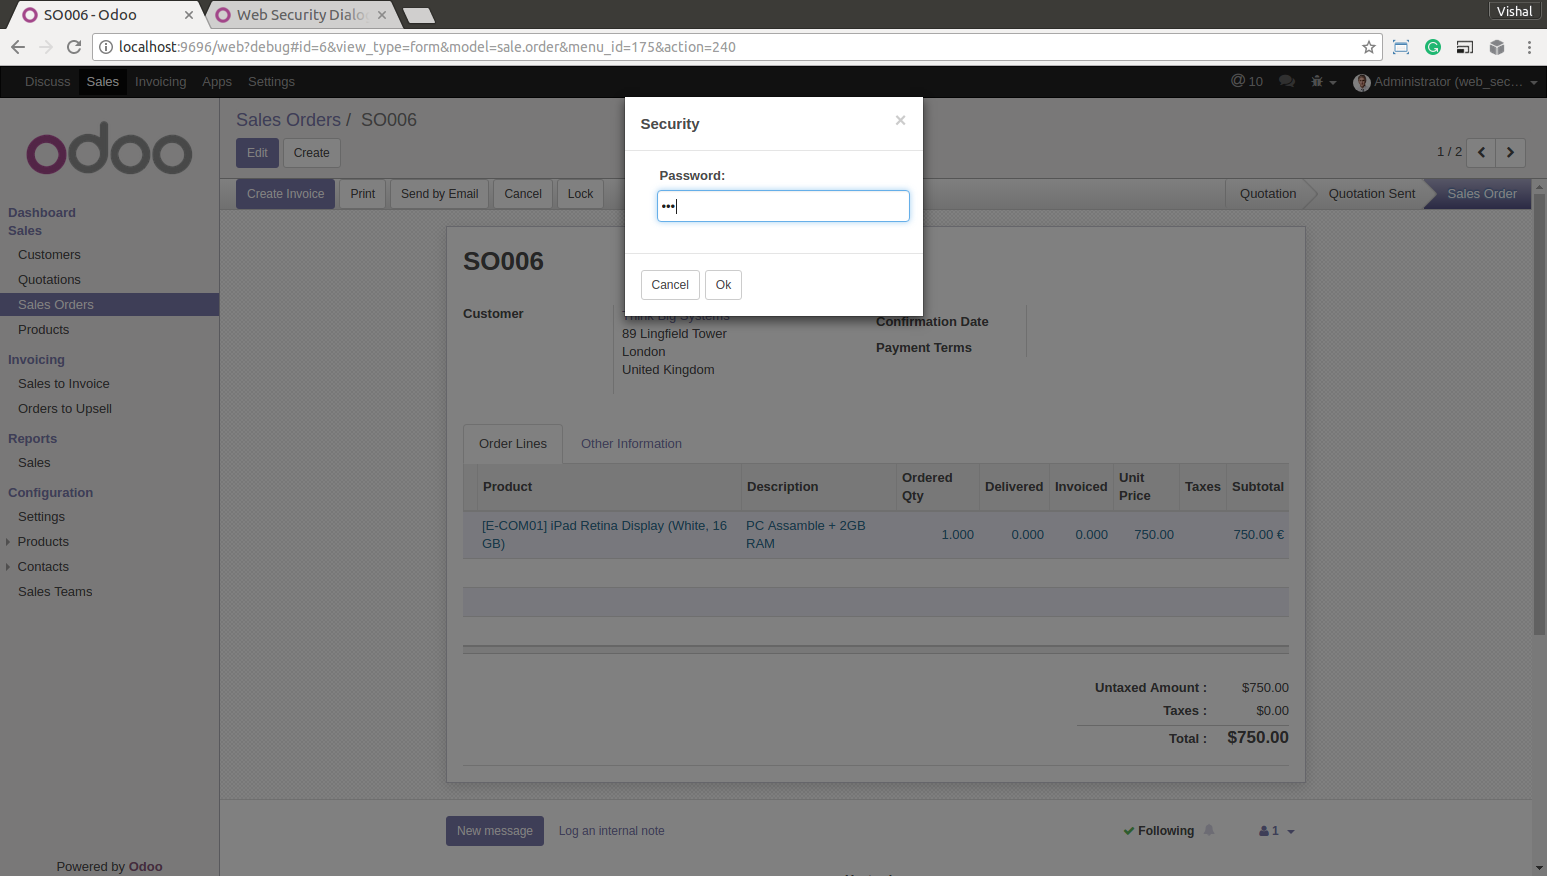
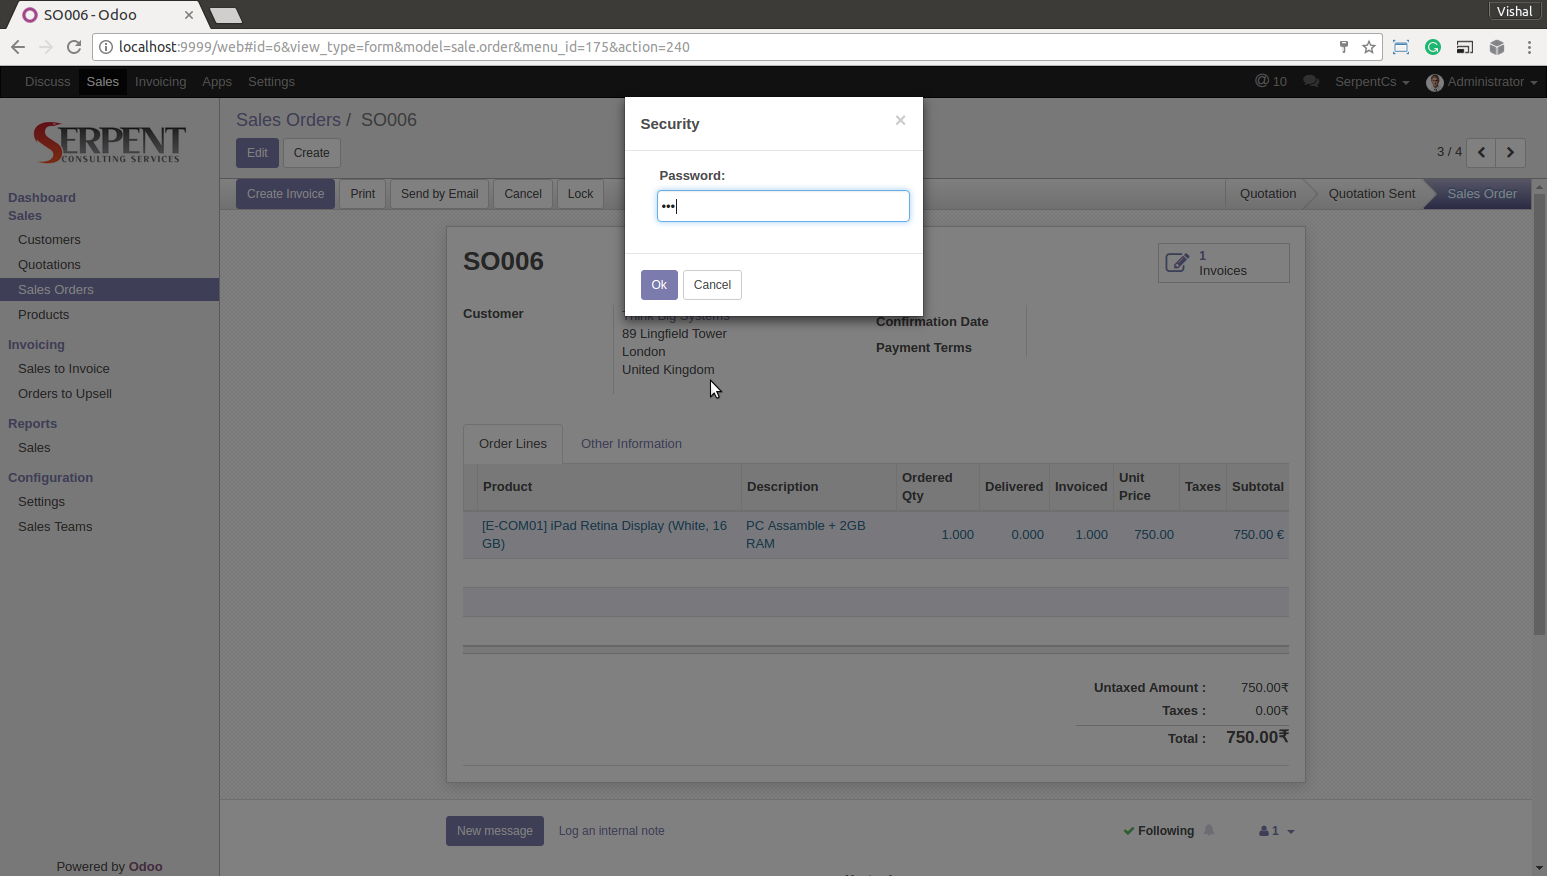
Changed the security functionality from user level to the company level.

diff --git a/web_security_dialog/static/src/js/web_security_dialog.js b/web_security_dialog/static/src/js/web_security_dialog.js
@@ -26,80 +26,93 @@ odoo.define("web_security_dialog.SecurityDialog",function(require){
                 }
             }
         },
-        on_click : function() {
+        execute_action: function() {
             var self = this;
-            if (this.view.is_disabled) {
-                return;
-            }
-            self.view.enable_button();
-            self.force_disabled = false;
-            self.check_disable();
-            if (self.$el.hasClass('o_wow')) {
-                self.show_wow();
-            }
-            if (this.is_dialog_security) {
-                self.dialog = new Dialog(self,{
-                    title: _t('Security'),
-                    size : "small",
-                    $content: QWeb.render('DialogSecurity'),
+            var exec_action = function() {
+            if (self.node.attrs.confirm && self.is_dialog_security){
+                Dialog.confirm(self, self.node.attrs.confirm, {
                     buttons: [
-                                {
-                                    text:_t('Cancel'),
-                                    close:true
-                                },
-                                {
-                                    text: _t("Ok"),
-                                    click: function(){
-                                       var curr_obj = this;
-                                       var pass_value = this.$el.find("#d_security").val();
-                                       if (pass_value) {
-                                           framework.blockUI();
-                                           var callback = self.validate_user(self.is_dialog_security,pass_value);
-                                           callback.done(function(result) {
-                                               framework.unblockUI();
-                                               if (result) {
-                                                   curr_obj.close();
-                                                   self.click_operation();
-                                               }else {
-                                                   Dialog.alert(self, _t("Password is Wrong"));
-                                                   return;
-                                               }
-                                           }).fail(function(error) {
-                                               framework.unblockUI();
-                                               Dialog.alert(self, _t("Connection lost"));
-                                               return;
-                                           });
-                                       }else {
-                                           Dialog.alert(self, _t("Please Enter the Password."));
-                                           return;
-                                       }
-                                    }
-                                }
-                            ]
-                }).open();
-            }else {
-            self.click_operation();
+                              {
+                                  text: _t("Ok"),
+                                  classes: 'btn-primary',
+                                  click: function(){
+                                      this.close();
+                                      self.open_pincode_dialog();
+                                  }
+                              },
+                              {
+                                  text:_t('Cancel'),
+                                  close:true
+                              }]
+                });
+            }else if (self.node.attrs.confirm) {
+                    var def = $.Deferred();
+                    Dialog.confirm(self, self.node.attrs.confirm, { confirm_callback: self.on_confirmed })
+                          .on("closed", null, function() {
+                              def.resolve(); 
+                              });
+                    return def.promise();
+                } else {
+                    return self.on_confirmed();
+                }
+            };
+            if (!this.node.attrs.special) {
+                return this.view.recursive_save().then(exec_action);
+            } else {
+                return exec_action();
             }
         },
-        click_operation : function() {
+        open_pincode_dialog : function(){
             var self = this;
-            this.execute_action().always(function() {
-                self.view.enable_button();
-                self.force_disabled = false;
-                self.check_disable();
-                if (self.$el.hasClass('o_wow')) {
-                    self.show_wow();
-                }
-            });
+            new Dialog(self,{
+                title: _t('Security'),
+                size : "small",
+                $content: QWeb.render('DialogSecurity'),
+                buttons: [
+                            {
+                                text: _t("Ok"),
+                                classes: 'btn-primary',
+                                click: function(){
+                                   var curr_obj = this;
+                                   var password = this.$el.find("#pincode").val();
+                                   if (password) {
+                                       framework.blockUI();
+                                       var callback = self.validate_pincode(self.is_dialog_security,password);
+                                       callback.done(function(result) {
+                                           framework.unblockUI();
+                                           if (result) {
+                                               curr_obj.close();
+                                              self.on_confirmed();
+                                           }else {
+                                               Dialog.alert(self, _t("Invalid or Wrong Password!"));
+                                               return;
+                                           }
+                                       }).fail(function(error) {
+                                           framework.unblockUI();
+                                           Dialog.alert(self, _t("Either the password is wrong or the connection is lost! Contact your Administrator."));
+                                           return;
+                                       });
+                                   }else {
+                                       Dialog.alert(self, _t("Please Enter the Password."));
+                                       return;
+                                   }
+                                }
+                            },
+                            {
+                                text:_t('Cancel'),
+                                close:true
+                            }
+                        ]
+            }).open();
         },
-        validate_user : function(field,value) {
+        validate_pincode : function(field,value) {
             var self = this;
             var data_vals = {
                     "field" : field,
                     "password"  : value,
-                    "userId" : self.session.uid
+                    "companyId" : self.session.company_id
                 };
-          return new Model("res.users").call("check_security",[[],data_vals]);
+          return new Model("res.company").call("check_security",[[],data_vals]);
         }
     });
 

diff --git a/web_security_dialog/static/description/index.html b/web_security_dialog/static/description/index.html
@@ -4,8 +4,8 @@
             <h2 class="oe_slogan">Web Security Dialog</h2>
             <h3 class="oe_slogan">This module provides the functionality to generalize security on any type of button.</h3>
             <ul>
-                <li style="font-size: 18px;">Offers user level security & restricted access.</li>
-                <li style="font-size: 18px;">Configuring security code to buttons from user configuration menu.</li>
+                <li style="font-size: 18px;">Offers company level security & restricted access.</li>
+                <li style="font-size: 18px;">Configuring security code to buttons from company configuration menu.</li>
                 <li style="font-size: 18px;">Enhances webpage security at the interface level.</li>
             </ul>
         </div>
@@ -15,12 +15,12 @@
     <div class="oe_row">
         <div class="oe_span6">
             <div class="oe_bg_img">
-                <img class="oe_picture oe_screenshot" src="img/add_code.png">
+                <img class="oe_picture oe_screenshot" src="img/res_company.png">
             </div>
         </div>
         <div class="oe_span6">
           <h3 class="oe_slogan">Add security code</h3>
-          <p class='oe_mt32' style="font-size: 18px;">As shown in the image, user can add a security code from user configuration menu.</p>
+          <p class='oe_mt32' style="font-size: 18px;">As shown in the image, user can add a security code from company configuration menu.</p>
         </div>
    </div>
 </section>
@@ -29,9 +29,10 @@
         <div class="oe_span12">
           <h3 class="oe_slogan">Example of web security dialog module.</h3>
             <ul>
-                <li style="font-size: 17px;">Passing the options attributes inside the button like below.</li>
+                <li style="font-size: 17px;">Passing the options and confirm attributes inside the button like below.</li>
+                <li style="font-size: 17px;">Required the confirm attributes.</li>
                 <ul>
-                    <li style="font-size: 15px;">&lt;button name="method_name" type="object" string="create invoice" options='{"security":"security_field"}'/&gt;</li>
+                    <li style="font-size: 15px;">&lt;button name="method_name" type="object" confirm="message" string="create invoice" options='{"security":"security_field"}'/&gt;</li>
                 </ul>
             </ul>
         </div>

diff --git a/web_security_dialog/__manifest__.py b/web_security_dialog/__manifest__.py
@@ -8,11 +8,11 @@
     'description': """
     This module provides the functionality to generalize security on
     any type of button.
-    -> Offers user level security & restricted access.
-    -> Configuring security code to buttons from user configuration
+    -> Offers company level security & restricted access.
+    -> Configuring security code to buttons from company configuration
        menu.
     -> Enhances webpage security at the interface level.
-    Passing the options attributes inside the button like below.
+    Passing the options and confirm attributes inside the button like below.
         -> <button name="method_name" type="object" string="create
         invoice" options='{"security":"security_field"}'/>""",
     'author': 'Serpent Consulting Services Pvt. Ltd.',
@@ -20,7 +20,7 @@
     'website': 'http://www.serpentcs.com',
     'depends': ['base', 'web'],
     'data': [
-        'views/res_users_security.xml',
+        'views/res_company_security.xml',
         'views/templates.xml'
     ],
     'qweb': ['static/src/xml/web_security_dialog.xml'],

diff --git a/web_security_dialog/models/res_company.py b/web_security_dialog/models/res_company.py
@@ -1,0 +1,24 @@
+# -*- coding: utf-8 -*-
+# See LICENSE file for full copyright and licensing details.
+from odoo import fields, models, api
+
+
+class SecurityDialog(models.Model):
+
+    _inherit = 'res.company'
+
+    pincode = fields.Char('Security Code')
+
+    @api.multi
+    def check_security(self, vals):
+        current_fields = vals.get('field').encode('ascii', 'ignore')
+        company_object = self.browse(vals.get('companyId'))
+        result = company_object.search_read([
+                        ('id', '=', vals.get('companyId'))], [current_fields])
+        if(result[0].get(current_fields or '') == vals.get('password')
+           .encode('ascii', 'ignore')):
+            return True
+        else:
+            return False
+        return False
+

diff --git a/web_security_dialog/models/__init__.py b/web_security_dialog/models/__init__.py
@@ -1,4 +1,4 @@
 # -*- coding: utf-8 -*-
 # See LICENSE file for full copyright and licensing details.
-from . import res_users
+from . import res_company
 
